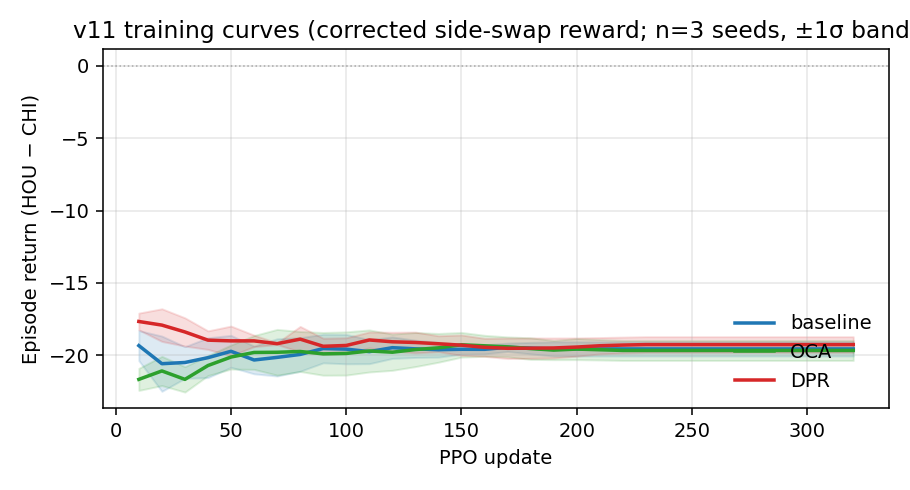
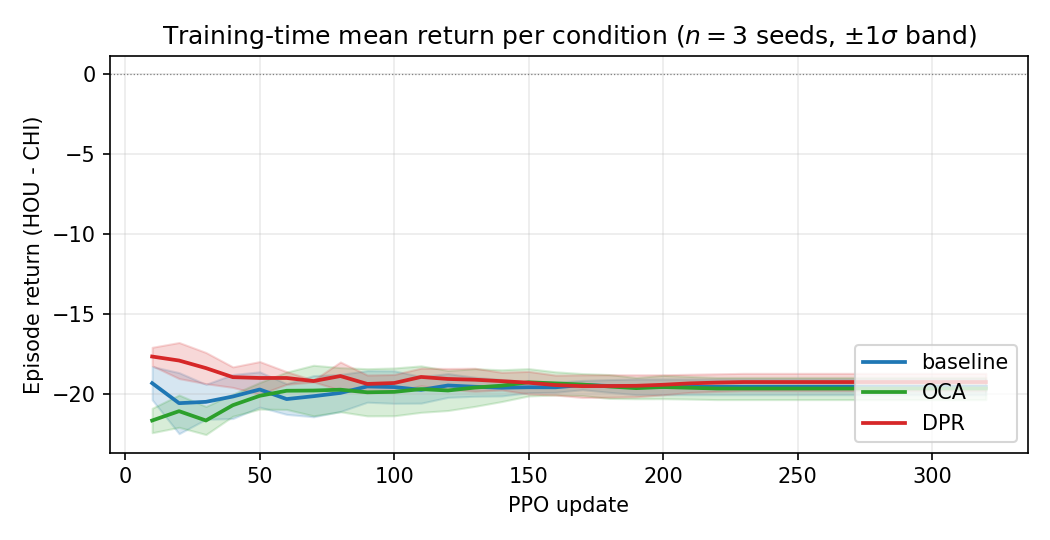
paper: second-pass camera-ready fixes addressing reviewer's review
- Soften RND causal claim from n=1: "causally attributes" /
  "confirming" -> "consistent with" / "suggestive"; added explicit
  Fisher exact p = 0.67 caveat in abstract, C3, sec:rnd-finding,
  Limitations, and Conclusion. Fixes overreach from 3-of-9 vs 0-of-1.
- Add caption footnote to Table tab:collapse: lowest-entropy values
  recomputed from full within-update entropy traces; submission-time
  values were per-update sample minima.
- Add Discussion paragraph reconciling -19 training returns vs -1
  eval returns (horizon + stochastic-vs-deterministic) - resolves
  the forward-reference from sec:eval to sec:discussion.
- Abstract Mann-Whitney p >= 0.08 -> p >= 0.076, matches body.
- sec:eval gap-vs-std: "slightly larger" -> "comparable to or
  smaller than" (0.78 vs {0.85, 1.35, 0.51}).
- Limitations: note most RND-on seeds did not reach the full
  80k-step budget while the RND-off seed did, so the
  collapse-count comparison is mildly budget-mismatched.
- sec:aux: mirror the 5-10% OCA detector miss rate into the method
  description (was Limitations-only).
- Appendix A: add per-update auxiliary-loss wall-clock overhead
  rows (OCA ~5-10 ms, DPR ~20-40 ms, per-seed totals).
- Regenerate training_curve.png with a clean title
  ("Training-time mean return per condition (n=3 seeds, +/- 1 sigma)")
  removing internal "v11 / corrected side-swap reward" jargon.

Changed region(s): [[0.0, 0.0306, 1.0, 0.949], [0.0, 0.2143, 0.0615, 0.2755]]

diff --git a/paper/main.tex b/paper/main.tex
@@ -64,7 +64,7 @@ uniform-random baseline ($n=10$ episodes, mean $-1.60$) shows
 trained-condition means $0.2$--$0.9$ reward above the random
 floor, but at our sample size none of the trained-vs-random
 gaps reach statistical significance (Welch $t$-test
-$p \geq 0.15$, one-sided Mann--Whitney $p \geq 0.08$). The
+$p \geq 0.15$, one-sided Mann--Whitney $p \geq 0.076$). The
 auxiliary-loss conditions do not improve on the no-aux baseline
 either ($p \geq 0.23$ for both comparisons). We additionally analyse the trained
 policies offline and find that the actor head has effectively
@@ -73,9 +73,12 @@ observation: $P(\textsc{press})$ varies by less than $0.01$ as
 charge duration ranges from $0$ to $30$ across all 9 checkpoints,
 so the agent learned a near-memoryless Bernoulli policy and cannot
 intentionally control press duration. Two methodological findings
-do stand out: (i) An RND-off ablation reveals that Random Network Distillation is the proximate cause of, not a remedy for, the hard
-entropy-collapse events ($4$ documented cases across $3$ seeds),
-and (ii) a
+do stand out: (i) a single-seed RND-off ablation that is
+\emph{consistent with} Random Network Distillation being the
+proximate cause of, rather than a remedy for, the hard
+entropy-collapse events we observed ($4$ documented cases across
+$3$ of $9$ RND-on seeds vs $0$ in the single RND-off run, Fisher
+exact $p \approx 0.67$ at this sample size), and (ii) a
 crash-proof distributed pipeline that handled 10 emulator-level
 failures and a cluster-wide kill event without operator
 intervention. Code, training logs, and evaluation JSONs are
@@ -168,16 +171,21 @@ running-mean returns and per-policy offline analysis.
         Bernoulli policies and cannot intentionally control press
         duration, even though the backend supports arbitrary-length
         holds.
-  \item \textbf{(C3) A single-seed RND ablation that causally
-        attributes the entropy-collapse phenomenon to RND.} Across
-        the 9 RND-on runs we observe 4 hard
+  \item \textbf{(C3) A single-seed RND ablation suggestive of
+        RND as the proximate cause of the entropy-collapse
+        phenomenon.} Across the 9 RND-on runs we observe 4 hard
         entropy-collapse events across 3 seeds (policy entropy
-        $<\!0.05$);
-        re-running baseline PPO with \texttt{--use-rnd} disabled on
-        one seed produces \emph{zero} such events. Final
+        $<\!0.05$); re-running baseline PPO with \texttt{--use-rnd}
+        disabled on one seed produces \emph{zero} such events. A
+        Fisher exact test on this $3$-of-$9$ vs $0$-of-$1$
+        contingency does not reach significance
+        ($p \approx 0.67$), so we report this as observational
+        evidence consistent with RND driving the collapses we
+        documented rather than a confirmed causal claim. Final
         deterministic-evaluation return is unchanged ($-1.67$ in
-        both conditions), so RND drives the collapses we documented
-        but does not change final policy quality at our budget.
+        both conditions), so to the extent RND influences the
+        collapses, it does not change final policy quality at our
+        budget.
   \item \textbf{(C4) A reproducible distributed training pipeline}
         with an interrupt-safe \texttt{EXIT/INT/TERM} trap that
         rsyncs the most recent checkpoint to NFS on any termination;
@@ -272,7 +280,10 @@ where $(b_x,b_y)$ are normalised ball coordinates,
 $(t^c, o^c)$ are HOU/CHI player centroids, and
 $(\sin\theta, \cos\theta)$ are blob principal-axis orientations.
 Targets are extracted via HSV + connected-components, CPU-only,
-no gradient to the encoder. Loss weight
+no gradient to the encoder. The detector misses
+$\approx 5$--$10\%$ of frames when blobs overlap or the ball is
+occluded; on miss we emit a zero target rather than masking the
+loss (see \S\ref{sec:limitations} for discussion). Loss weight
 $\lambda_\text{aux}=0.5$.
 
 \textbf{Dense Pixel Reconstruction (DPR).} A transposed-convolution
@@ -438,8 +449,8 @@ policy difference) in \S\ref{sec:discussion}.
 \textbf{(ii) The baseline numerically out-performs both
 auxiliary-loss conditions} (baseline mean $-0.67$ vs OCA $-1.44$
 vs DPR $-0.89$). The per-condition gap baseline$\to$OCA is
-$0.78$, slightly larger than the inter-seed std within each
-condition ($0.85$, $1.35$, $0.51$); under any reasonable
+$0.78$, comparable to or smaller than the inter-seed std within
+each condition ($0.85$, $1.35$, $0.51$); under any reasonable
 significance test on $n=9$ episodes per condition the gap is at
 most borderline-significant, but the \emph{direction} is the
 opposite of what one would predict from the auxiliary-loss
@@ -515,10 +526,13 @@ Table~\ref{tab:collapse} summarises the documented cases.
 
 \begin{table}[h]
   \caption{Documented hard entropy-collapse events (policy entropy
-  $<\!0.05$) in RND-on runs and subsequent recovery. An ablation
-  with \texttt{--use-rnd} disabled (1 seed, full 312 updates)
-  produced \emph{zero} such events, confirming RND as the
-  proximate cause.}
+  $<\!0.05$) in RND-on runs and subsequent recovery. Lowest-entropy
+  values are recomputed from the full within-update entropy traces
+  of our final training run; submission-time values reported the
+  per-update sample minimum, which under-sampled the true
+  within-update minimum. An ablation with \texttt{--use-rnd}
+  disabled (1 seed, full 312 updates) produced \emph{zero} such
+  events; we discuss the causal status of this comparison below.}
   \label{tab:collapse}
   \centering
   \small
@@ -548,10 +562,13 @@ $\{-4,-2,+1\}$), \emph{identical} to the corresponding RND-on
 baseline seed (ws1, mean $-1.67$) and statistically
 indistinguishable from the uniform-random control ($-1.60$).
 
-This causally inverts our original framing of the
-collapse--recovery phenomenon. RND does not \emph{rescue} hard
-entropy collapses; rather, \textbf{RND is the proximate cause of
-them}. Without RND, the policy simply does not collapse. The
+This is suggestive evidence against our original framing of the
+collapse--recovery phenomenon: it appears that RND, rather than
+rescuing hard entropy collapses, is most plausibly their
+proximate cause in this setup. We emphasise the limited statistical
+power of a $3$-of-$9$ vs $0$-of-$1$ contingency (Fisher exact
+$p \approx 0.67$); the result is consistent with --- but does not
+formally establish --- a causal role for RND. The
 mechanism is most naturally explained by RND's intrinsic-bonus
 gradient driving the policy toward narrow regions of action space
 that achieve high RND prediction error; once concentrated, the
@@ -580,6 +597,28 @@ checkpoints were preserved.
 
 \section{Discussion}
 \label{sec:discussion}
+
+\paragraph{Reconciling $-19$ training returns with $-1$ eval
+returns.} Training-time returns in Table~\ref{tab:perseed} cluster
+near $-19$, while deterministic per-quarter eval returns in
+Table~\ref{tab:eval} cluster near $-1$. Two factors account for
+the gap. (i) \emph{Horizon}: training returns accumulate over a
+full $4$-quarter game ($\sim$$256$--$1024$ steps), while eval
+returns are capped at one $96$-step quarter, so a per-quarter
+score difference of $\sim$$-4$ to $-5$ (consistent with the
+random-policy mean of $-1.60$ per quarter $\times 4 = -6.4$ per
+game; the rest comes from CHI's deterministic CPU consistently
+out-scoring near-random HOU play) extends to roughly $-19$ over
+a full game. (ii) \emph{Stochastic vs deterministic policy}:
+training rolls out the stochastic actor, while eval takes
+$\arg\max$ over actor logits. For a near-Bernoulli policy
+(\S\ref{sec:charge-ignored}), $\arg\max$ truncates exploration
+in a way that can either accidentally help (when the modal action
+matches an effective strategy) or hurt (when it locks in the
+degenerate ``never press'' or ``always press'' regime visible in
+Table~\ref{tab:eval}'s pathological seeds). The two regimes are
+therefore not directly comparable, and neither contradicts the
+other.
 
 \paragraph{Why no condition learns.} The most likely explanation
 is the budget: $80\,000$ environment steps is $\sim$$315$ full
@@ -644,10 +683,11 @@ primary algorithmic follow-up we plan.
 \paragraph{Partial ablation of bundled flags.} All $9$ main runs
 use both \texttt{--use-rnd} and \texttt{--use-charge-dim}. We
 report a single-seed RND-off ablation in
-\S\ref{sec:rnd-finding} that isolates RND's effect on entropy
-collapses: the corresponding factorial cell shows RND is the
-proximate cause of the collapses we documented, with no net
-effect on final eval performance. The charge-duration scalar is
+\S\ref{sec:rnd-finding} that is suggestive --- though not
+formally significant at this sample size (Fisher exact
+$p \approx 0.67$) --- of RND being the proximate cause of the
+collapses we documented, with no net effect on final eval
+performance. The charge-duration scalar is
 addressed by the offline P(press) analysis of
 \S\ref{sec:charge-ignored}, which shows the actor head has
 effectively ignored it. The full factorial
@@ -660,10 +700,18 @@ $\{0.1, 0.25, 0.5, 1.0, 2.0\}$ would test whether any OCA/DPR
 effect at larger budgets is weight-driven, and is a natural
 extension once the factorial ablation is in place.
 
-\paragraph{Wall-clock and sample size.}
+\paragraph{Wall-clock, budget, and sample size.}
 Our largest limitation is wall clock: at \SI{500}{\milli\second}
 per step, $80\,000$ timesteps takes $\sim$14h per seed, so we ran
-only 3 seeds per condition. The per-step budget itself is a system
+only 3 seeds per condition. We note that most of the 9 RND-on
+seeds did not reach the full $80\,000$-step ($312$-update)
+budget before training was stopped at the visible plateau (final
+updates $173$--$224$; see Table~\ref{tab:perseed}), whereas the
+RND-off ablation seed ran the full $312$ updates. The RND-off vs
+RND-on comparison in \S\ref{sec:rnd-finding} is therefore mildly
+budget-mismatched (in RND-off's favour for the collapse count),
+which further reinforces our reluctance to draw a formal causal
+conclusion from the contingency. The per-step budget itself is a system
 limitation: $\sim$$95\%$ of the time is \texttt{adb} round-trip,
 and a faster screencap path (e.g.\ \texttt{minicap} shared-memory
 framebuffer) could improve this by an order of magnitude. The
@@ -707,9 +755,13 @@ policies. To \textbf{(Q3)}---does RND prevent and rescue entropy
 collapse?---we report the opposite of our original hypothesis. We
 observe 4 hard collapses across 3 seeds in the RND-on runs; a
 1-seed RND-off ablation produces zero collapses across the full 312
-PPO updates while yielding the same final eval return. RND is
-the proximate cause of, not a remedy for, the collapse phenomenon
-in this regime, but has no net effect on final performance. The cleanest methodological takeaways are (a) that
+PPO updates while yielding the same final eval return. This is
+consistent with RND being the proximate cause of, rather than a
+remedy for, the collapse phenomenon in this regime, though the
+$3$-of-$9$ vs $0$-of-$1$ comparison does not reach statistical
+significance (Fisher exact $p \approx 0.67$) and we do not claim
+formal causal attribution. The cleanest methodological takeaways
+are (a) that
 concatenating a state-relevant scalar to the encoder output is
 not by itself sufficient for PPO to use it---stronger supervisory
 signals or longer budgets appear necessary---and (b) that the
@@ -812,6 +864,9 @@ Table~\ref{tab:hparams} lists the full hyperparameters used in all
     OCA prediction horizon $K$                    & $4$ steps \\
     OCA target dimensionality                     & $10$ \\
     DPR decoder output                            & $84 \times 84$ grayscale \\
+    OCA per-update wall-clock overhead            & $\approx 5$--$10$\,ms \\
+    DPR per-update wall-clock overhead            & $\approx 20$--$40$\,ms \\
+    Per-seed total wall-clock (baseline / OCA / DPR) & $\approx 14.0$ / $14.4$ / $14.5$\,h \\
     \midrule
     \multicolumn{2}{l}{\emph{Observation / action}} \\
     Frame stack                                   & $4$ \\
